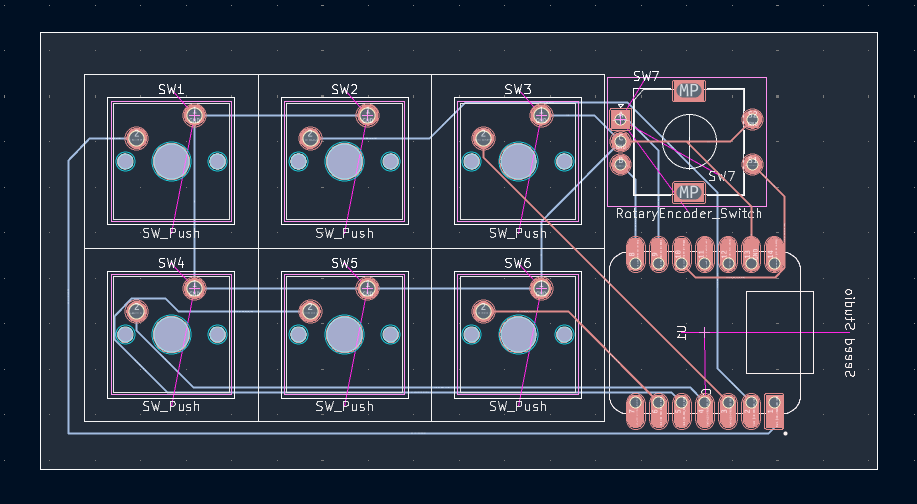
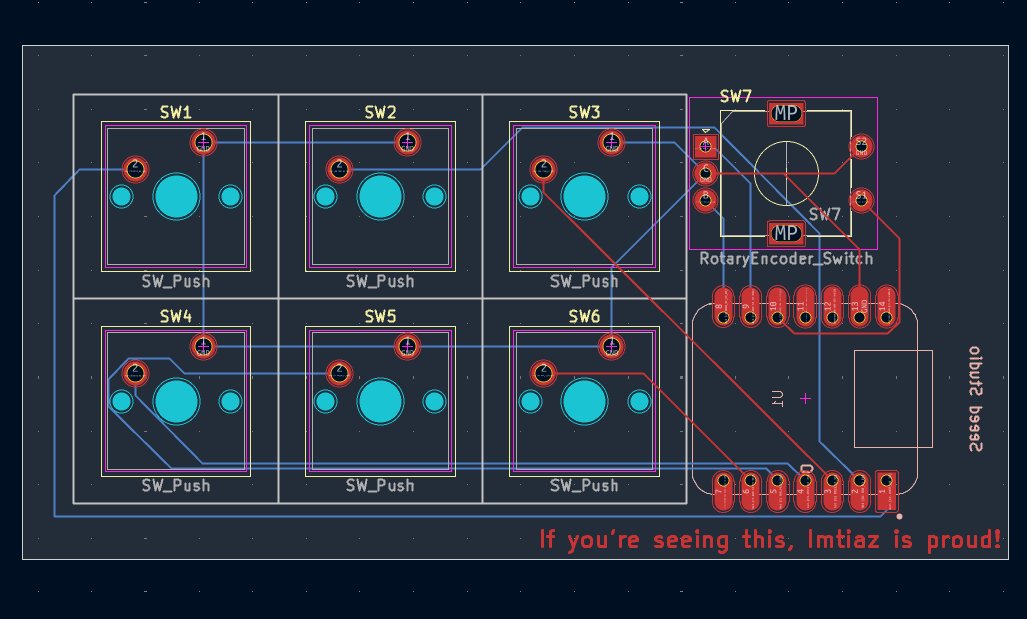
ImtPad-2

diff --git a/Firmware/main.py b/Firmware/main.py
@@ -8,11 +8,9 @@ from kmk.scanners.keypad import KeysScanner
 keyboard = KMKKeyboard()
 encoder = EncoderHandler()
 
-# Pin Definitions
 keyboard.matrix = KeysScanner( pins=[board.D0, board.D1, board.D2, board.D3, board.D4, board.D5] )
 encoder.pins = ((board.D8,board.D7,board.D9),)
 
-# Key Definitions
 keyboard.keymap = [[KC.Z, KC.W, KC.X, KC.A, KC.S, KC.D],]
 encoder.map = ( ( (KC.VOLD, KC.VOLU, KC.MUTE), ), )
 

diff --git a/README.md b/README.md
@@ -1,2 +1,20 @@
-hi
+# ImtPad - Micropad, Project of Hack Club
 
+Hi, I'm Imtiaz Ahmed. In the mission of hack club stardance.hackclub.com , I reverse engineered a 6 Button Micropad and made it exactly like his.
+Here's the project in Stardance: https://stardance.hackclub.com/projects/2196
+
+## Project Overall
+![Full](assets/readme/full.png)
+
+## 3D Printed Parts 
+![Top](assets/readme/top.png)
+![Bottom](assets/readme/bottom.png)
+
+## Schematics
+![Schematics](assets/readme/schematics.png)
+
+## Footprint 
+![Footprint](assets/readme/footprint%20of%20schematics.png)
+
+## PCB
+![PCB](assets/readme/pcb.png)
